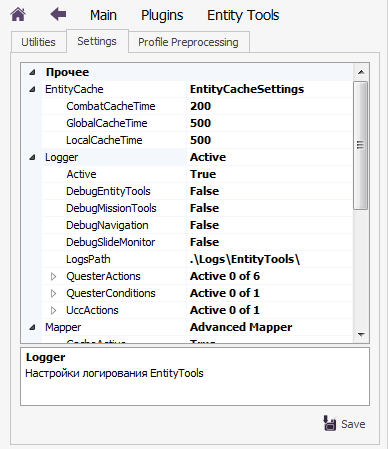
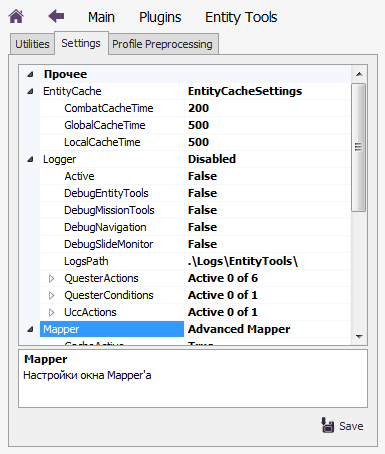
Исправление изображений, оглавлений и ссылок

Changed region(s): [[0.0, 0.0, 1.0, 1.0]]

diff --git a/MainPanel/Overview-RU.md b/MainPanel/Overview-RU.md
@@ -14,23 +14,25 @@
 
 <p align="center"><img src="img/Utilites/Panel.png"></p>
 
-- **Инструмент экспорта : [*Exports*](Exporter-RU.md)**
-- **Управление логированием : Logger**
-- **Активация [SpellStuckMonitor'ом](UnstuckSpells-RU.md)**
-- **Активация [EnchantHelper'a](EnchantHelper-RU.md)**
-- **Активация расширенного [Mapper'a](../Patches/Mapper/Mapper-RU.md)**
+- **Инструмент экспорта данных в xml-файл: [*Export*](Exporter-RU.md)**
+- **Активация собственного логирования EntityTools - [Logger'a](img/Settings/Logger.png)**
+- **Активация [SpellStuckMonitor'а](UnstuckSpells-RU.md)**
+- **Активация собственного окна картографирования - [Mapper'a](../Patches/Mapper/Mapper-RU.md)**
 - **Обозреватель [Entities](../General/EntityIdentification-RU.md#ref-EntityViewer)**
-- **Обозреватель элементов внутриигрового интерфейса : Game UI**
-- **Инструмент исследования аур : [Auras](AuraViewer-RU.md)**
+- **Обозреватель элементов внутриигрового интерфейса : [Game UI](img/UIViewer.png)**
+- **Обозреватель аур : [Auras](AuraViewer-RU.md)**
 - **Монитор миссий : [Mission](MissionMonitor-RU.md)**
 - **Монитор членов группы : Team**
 - **Контроль целостности плагина : Validate**
+<!-- - **Активация [EnchantHelper'a](EnchantHelper-RU.md)** -->
+
+---
 
 ## **Вкладка Settings**
 
 <p align="center"><img src="img/Settings/Panel.png"></p>
 
-На данной вкладке находятся настройки всех инструментов и патчей плагина **EntityTools**.
+На данной вкладке собраны настройки всех инструментов и патчей плагина **EntityTools**.
 
 ---
 

diff --git a/index.md b/index.md
@@ -18,10 +18,17 @@
 ### **2. [Расширения для *UCC*](Ucc/EntityTools-UccExtensions-RU.md)**
 ### **3. [Главная панель плагина](MainPanel/Overview-RU.md)**
 ### **4. Инструменты:**
-- **[Окно картографирования (Mapper)](Patches/Mapper/Mapper-RU.md)** 
-- **[Окно выбора Entity](General/EntityIdentification-RU.md#ref-EntityViewer)**
-- **[Редактор CustomRegionSet](General/CustomRegionSet-RU.md#ref-CustomRegionSet-Editor)**
-- **[Редактор AuraViewer](MainPanel/AuraViewer-RU.md#ref-AuraViewer)**
-- **[Помощник зачарования (EnchantHelper)](MainPanel/EnchantHelper-RU.md)**  
+- **Окно картографирования [Mapper](Patches/Mapper/Mapper-RU.md)** 
+- **Обозреватель аур [AuraViewer](MainPanel/AuraViewer-RU.md#ref-AuraViewer)**
+- **Обозреватель Entities [EntityViewer](General/EntityIdentification-RU.md#ref-EntityViewer)**
+- **Монитор миссий [MissionMonitor](MainPanel/MissionMonitor-RU.md)**
+- **[EntityTool Logger](MainPanel/img/Utilites/Logger.png)**
+<!-- - **[Редактор CustomRegionSet](General/CustomRegionSet-RU.md#ref-CustomRegionSet-Editor)** -->
+<!-- - **[Помощник зачарования (EnchantHelper)](MainPanel/EnchantHelper-RU.md)**   -->
 
-### **5. [Патчи](Patches/Overview-RU.md)**
+### **5. Фоновые сервисы:**
+- **[SpellStuckMonitor](UnstuckSpells-RU.md)**
+- **[SlideMonitor](MainPanel/img/Settings/SlideMonitor.png)**
+- **[Quester Profile Preprocessing](MainPanel/QuesterProfilePreprocessing-RU.md)**
+
+### **6. [Патчи](Patches/Overview-RU.md)**
